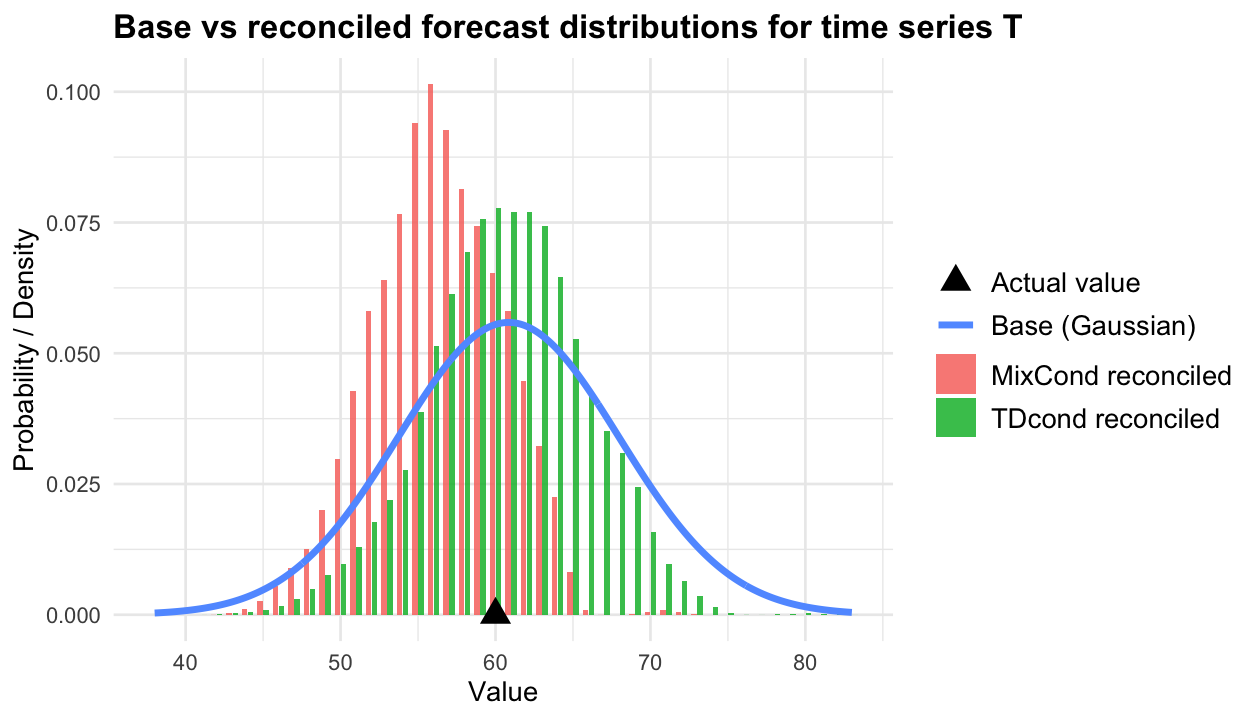
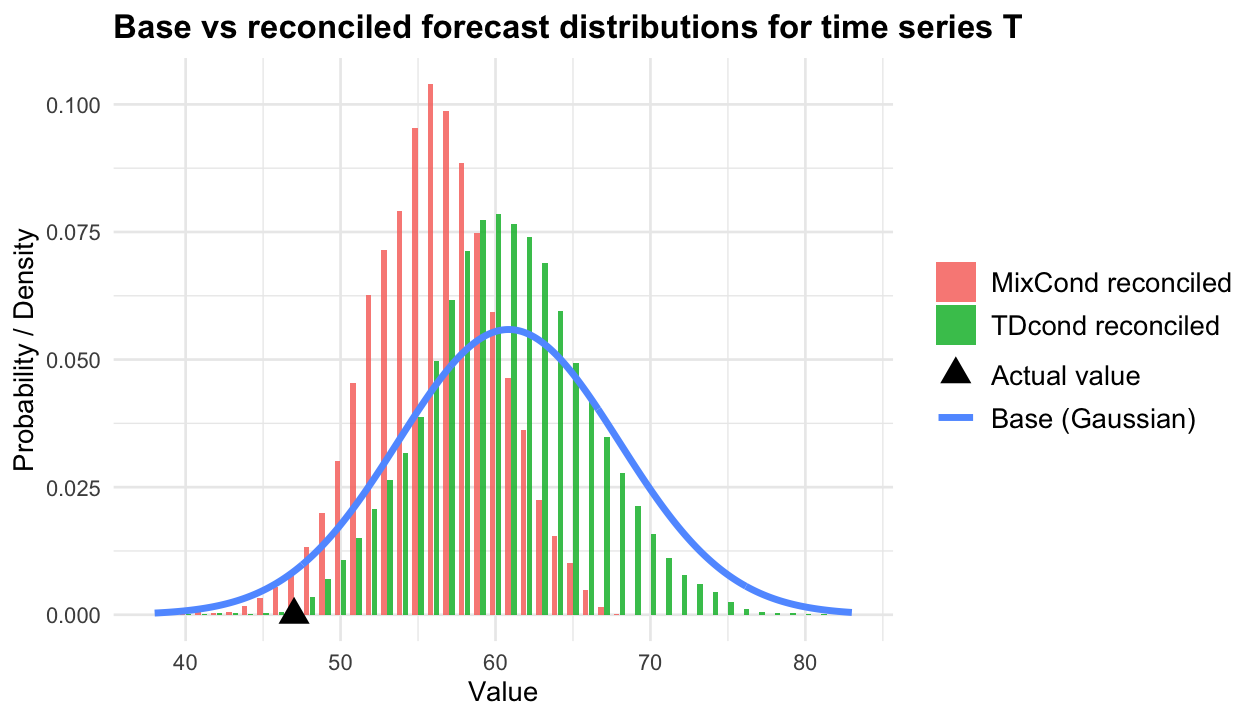
updated references to t-rec paper. updated roxygen version

diff --git a/README.md b/README.md
@@ -74,7 +74,7 @@ The package follows the standard `fable` workflow:
 4.  Produce reconciled probabilistic forecasts with `forecast()`.
 
 The vignette
-[fable.bayesRecon](https://cran.r-project.org/web/packages/fable.bayesRecon/vignettes/fable.bayesRecon.html)
+[fable.bayesRecon](https://cran.r-project.org/package=fable.bayesRecon/vignettes/fable.bayesRecon.html)
 provides a simple usage example; refer to the package documentation for
 more details on the reconciliation methods and their parameters. See the
 book Hyndman and Athanasopoulos (2021) for a general introduction to
@@ -146,7 +146,8 @@ al. 2024](https://doi.org/10.1016/j.ijforecast.2023.12.004)). The
 uncertainty of the covariance matrix of the base forecasts; the
 reconciled forecasts, which are multivariate Student-t, are typically
 better calibrated (see [Carrara et
-al. 2025](https://arxiv.org/abs/2506.19554) for details).
+al. 2026](https://doi.org/10.1016/j.ijforecast.2026.07.003) for
+details).
 
 ``` r
 library(fable)
@@ -273,22 +274,22 @@ the 80%/95% quantiles of the base and reconciled forecast distributions
 
 | .model |     T |    A |    B |   AA |   AB |   BA |   BB |
 |:-------|------:|-----:|-----:|-----:|-----:|-----:|-----:|
-| base   | 16.02 | 7.56 | 8.67 | 2.92 | 4.10 | 4.90 | 5.56 |
-| buis   | 15.88 | 6.60 | 9.28 | 2.77 | 3.83 | 4.31 | 4.97 |
+| base   | 15.89 | 7.27 | 8.73 | 2.91 | 4.10 | 4.90 | 5.50 |
+| buis   | 15.72 | 6.62 | 9.10 | 2.77 | 3.85 | 4.29 | 4.81 |
 
 **80% quantile**
 
 | .model |   T |   A |   B |  AA |  AB |  BA |  BB |
 |:-------|----:|----:|----:|----:|----:|----:|----:|
-| base   |  20 |  10 |  11 |   4 |   6 |   7 |   7 |
-| buis   |  18 |   8 |  11 |   4 |   5 |   6 |   6 |
+| base   |  21 |  10 |  12 |   4 |   6 |   7 |   7 |
+| buis   |  18 |   9 |  11 |   4 |   5 |   6 |   6 |
 
 **95% quantile**
 
 | .model |   T |   A |   B |  AA |  AB |  BA |  BB |
 |:-------|----:|----:|----:|----:|----:|----:|----:|
-| base   |  25 |  14 |  15 |   6 |   8 |   9 |  10 |
-| buis   |  20 |  10 |  13 |   5 |   7 |   7 |   8 |
+| base   |  27 |  14 |  15 |   6 |   8 |   9 |  10 |
+| buis   |  21 |  11 |  13 |   6 |   7 |   7 |   8 |
 
 Finally, we compare the base and reconciled forecast distributions for
 the top series T, by evaluating the `distributional` generics
@@ -415,15 +416,15 @@ model, one column per series).
 | .model  |     T |     A |     B |
 |:--------|------:|------:|------:|
 | base    | 60.84 | 26.66 | 33.98 |
-| mixcond | 56.33 | 23.52 | 32.81 |
-| tdcond  | 60.67 | 26.67 | 34.00 |
+| mixcond | 56.05 | 23.42 | 32.63 |
+| tdcond  | 60.68 | 26.66 | 34.01 |
 
 **95% quantile**
 
 | .model  |     T |     A |     B |
 |:--------|------:|------:|------:|
 | base    | 72.58 | 36.11 | 39.59 |
-| mixcond | 63.00 | 29.00 | 37.00 |
+| mixcond | 62.00 | 28.00 | 37.00 |
 | tdcond  | 69.00 | 33.00 | 39.00 |
 
 Finally, we compare the base forecast and the two reconciled forecast
@@ -440,10 +441,10 @@ of different sizes.
 
 ## References
 
-Carrara, C., Corani, G., Azzimonti, D., Zambon, L. (2025). *Modeling the
-uncertainty on the covariance matrix for probabilistic forecast
-reconciliation*. arXiv preprint arXiv:2506.19554. [Available
-here](https://arxiv.org/abs/2506.19554)
+Carrara, C., Azzimonti, D., Corani, G., Zambon, L. (2026). *Modeling
+uncertainty in the covariance matrix for probabilistic forecast
+reconciliation*. International Journal of Forecasting. In press,
+[DOI](https://doi.org/10.1016/j.ijforecast.2026.07.003).
 
 Hyndman, R.J., & Athanasopoulos, G. (2021). *Forecasting: principles and
 practice*. 3rd edition, OTexts: Melbourne, Australia.
